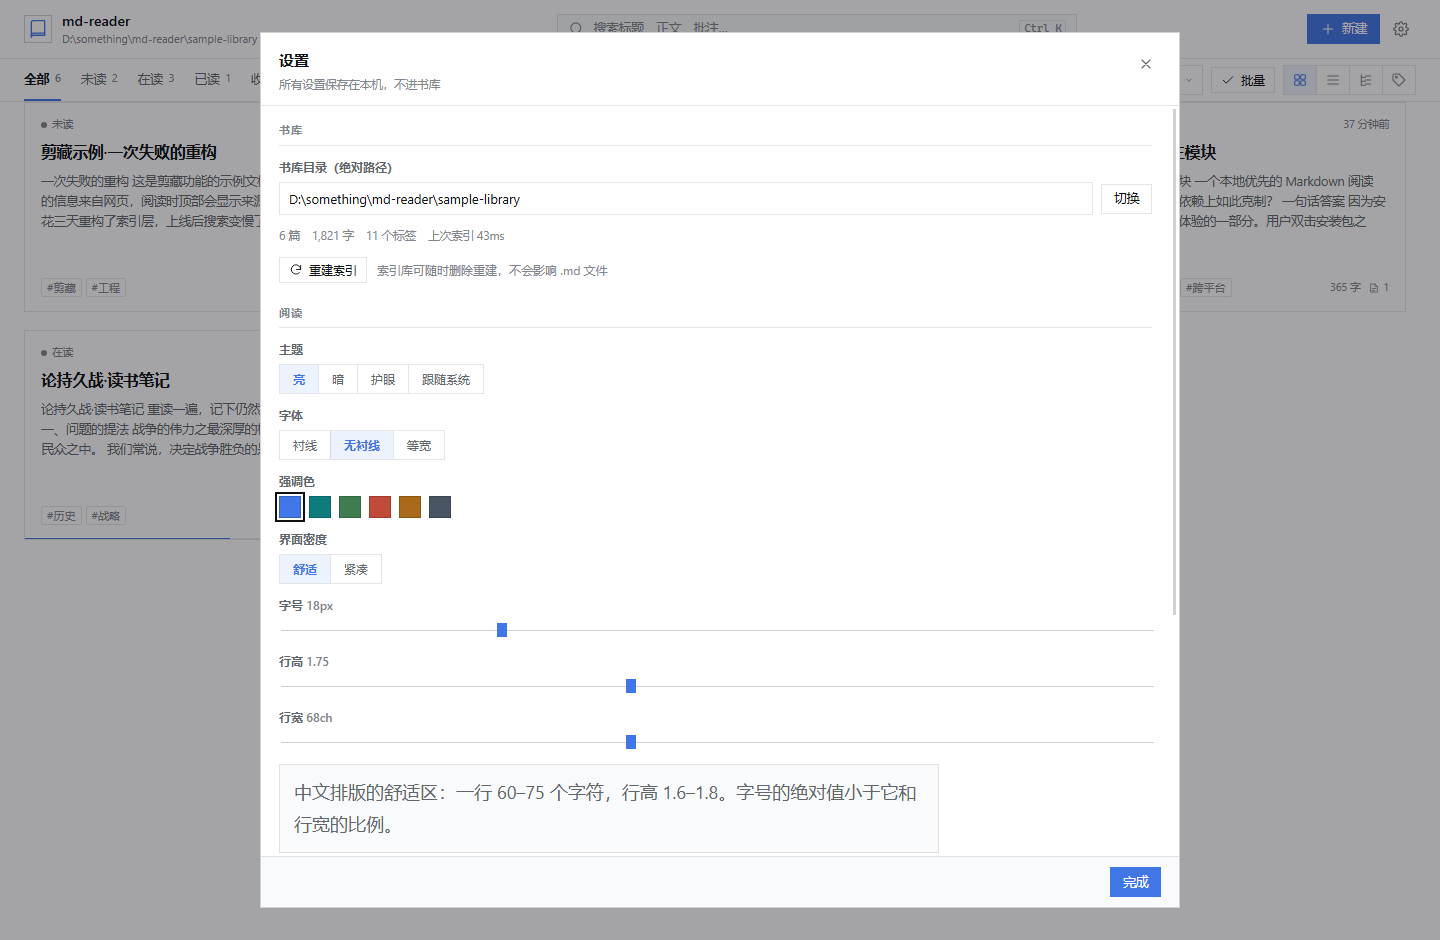
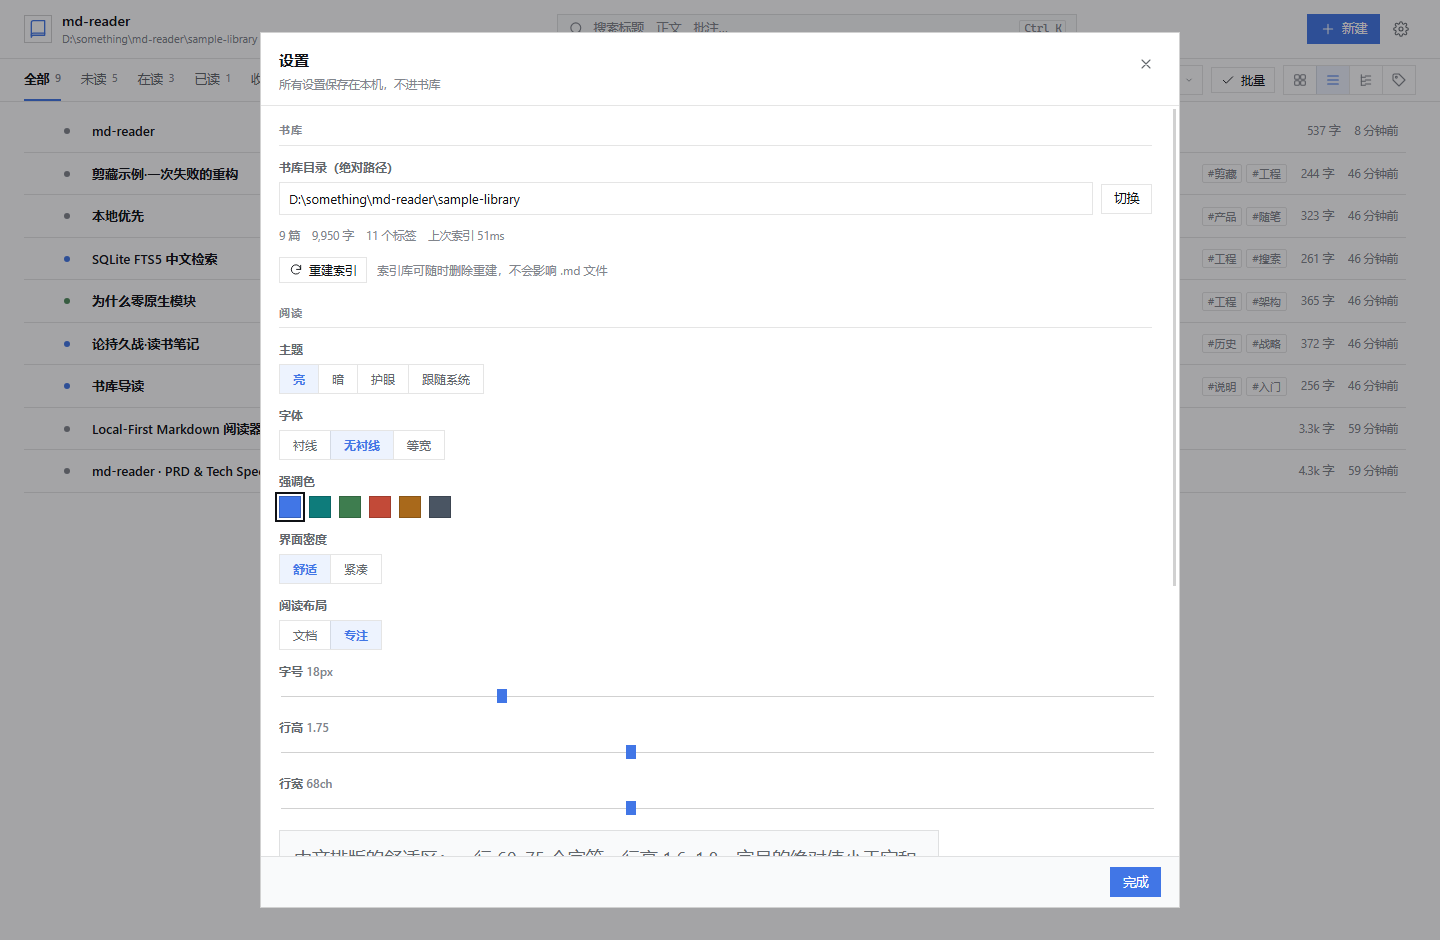
feat(ui): 文档满宽布局 + Typora 式专注布局，记忆书架视图与阅读布局

diff --git a/packages/web/src/components/ReaderPage.tsx b/packages/web/src/components/ReaderPage.tsx
@@ -44,7 +44,7 @@ const STATUS_OPTIONS: { value: DocStatus; label: string }[] = [
 const scrollMemory = new Map<string, number>();
 
 export function ReaderPage({ docId, onBack, onOpenDoc }: ReaderPageProps) {
-  const { config, info, docs, resolveWiki, refreshDocs } = useLibrary();
+  const { config, info, docs, resolveWiki, refreshDocs, applyConfig } = useLibrary();
   const { toast } = useToast();
 
   const [doc, setDoc] = useState<DocPayload | null>(null);
@@ -622,6 +622,7 @@ export function ReaderPage({ docId, onBack, onOpenDoc }: ReaderPageProps) {
   const healthyList = useMemo(() => annotationList.filter((a) => !orphans.includes(a.id)), [annotationList, orphans]);
   const statusLabelText = doc ? statusLabel(doc.status) : '';
   const theme = config?.theme === 'dark' || (config?.theme === 'system' && window.matchMedia('(prefers-color-scheme: dark)').matches) ? 'dark' : 'light';
+  const focusMode = config?.readerLayout === 'focus';
 
   if (loading) {
     return (
@@ -650,7 +651,7 @@ export function ReaderPage({ docId, onBack, onOpenDoc }: ReaderPageProps) {
   }
 
   return (
-    <div className={`reader ${immersive ? 'immersive' : ''}`}>
+    <div className={`reader ${immersive ? 'immersive' : ''} ${focusMode ? 'focus-mode' : ''}`}>
       <header className="reader-head">
         <button className="icon-btn" onClick={onBack} title="返回书架（Esc）">
           <Icon name="back" size={19} />
@@ -710,8 +711,23 @@ export function ReaderPage({ docId, onBack, onOpenDoc }: ReaderPageProps) {
             </>
           )}
           <button
+            className={`btn btn-ghost small ${focusMode ? 'active' : ''}`}
+            onClick={() => void applyConfig({ readerLayout: focusMode ? 'document' : 'focus' })}
+            title="切换阅读布局：文档（三栏）/ 专注（单栏）"
+          >
+            <Icon name="layout" size={14} />
+            {focusMode ? '文档' : '专注'}
+          </button>
+          <button
             className={`icon-btn ${panelOpen ? 'active' : ''}`}
-            onClick={() => setPanelOpen((v) => !v)}
+            onClick={() => {
+              if (focusMode) {
+                void applyConfig({ readerLayout: 'document' });
+                setPanelOpen(true);
+                return;
+              }
+              setPanelOpen((v) => !v);
+            }}
             title="侧边面板"
           >
             <Icon name="sidebar" size={18} />
@@ -775,7 +791,7 @@ export function ReaderPage({ docId, onBack, onOpenDoc }: ReaderPageProps) {
       )}
 
       <div className="reader-main">
-        {!immersive && panelOpen && <Toc items={toc} activeId={activeHeading} onJump={(id) => articleRef.current?.scrollToHeading(id)} />}
+        {!immersive && !focusMode && panelOpen && <Toc items={toc} activeId={activeHeading} onJump={(id) => articleRef.current?.scrollToHeading(id)} />}
 
         <div className="reader-content">
           {doc.source?.url && mode === 'read' && (
@@ -832,7 +848,7 @@ export function ReaderPage({ docId, onBack, onOpenDoc }: ReaderPageProps) {
           )}
         </div>
 
-        {!immersive && panelOpen && (
+        {!immersive && !focusMode && panelOpen && (
           <aside className="side-panel">
             <div className="panel-tabs">
               <button className={panelTab === 'notes' ? 'active' : ''} onClick={() => setPanelTab('notes')}>

diff --git a/packages/web/src/components/ShelfPage.tsx b/packages/web/src/components/ShelfPage.tsx
@@ -26,6 +26,20 @@ const STATUS_TABS: { key: StatusFilter; label: string; icon: IconName }[] = [
   { key: 'inbox', label: '收件箱', icon: 'inbox' },
 ];
 
+const VIEW_MODES: readonly ViewMode[] = ['grid', 'list', 'tree', 'tags'];
+const SORT_KEYS: readonly SortKey[] = ['recent', 'added', 'words', 'title'];
+const STATUS_KEYS: readonly StatusFilter[] = ['all', 'unread', 'reading', 'done', 'inbox'];
+
+function readPreference<T extends string>(key: string, allowed: readonly T[], fallback: T): T {
+  try {
+    const value = localStorage.getItem(key);
+    if (value && (allowed as readonly string[]).includes(value)) return value as T;
+  } catch {
+    /* ignore */
+  }
+  return fallback;
+}
+
 function matchesFilter(doc: DocSummary, filter: StatusFilter): boolean {
   if (filter === 'all') return true;
   if (filter === 'inbox') return dirOf(doc.relPath).toLowerCase().startsWith('inbox');
@@ -62,9 +76,11 @@ export function ShelfPage({ onOpenDoc, onNewDoc, onOpenSearch, onOpenSettings }:
   const { docs, tags, info, loading, error, refresh, refreshDocs, progress, config } = useLibrary();
   const { toast } = useToast();
   const density = config?.density ?? 'comfortable';
-  const [status, setStatus] = useState<StatusFilter>('all');
-  const [sort, setSort] = useState<SortKey>('recent');
-  const [view, setView] = useState<ViewMode>('grid');
+  const [status, setStatus] = useState<StatusFilter>(() =>
+    readPreference('mr.shelf.status', STATUS_KEYS, 'all'),
+  );
+  const [sort, setSort] = useState<SortKey>(() => readPreference('mr.shelf.sort', SORT_KEYS, 'recent'));
+  const [view, setView] = useState<ViewMode>(() => readPreference('mr.shelf.view', VIEW_MODES, 'grid'));
   const [query, setQuery] = useState('');
   const [activeTag, setActiveTag] = useState<string | null>(null);
   const [tagQuery, setTagQuery] = useState('');
@@ -72,6 +88,17 @@ export function ShelfPage({ onOpenDoc, onNewDoc, onOpenSearch, onOpenSettings }:
   const [selected, setSelected] = useState<Set<string>>(new Set());
   const [tagInput, setTagInput] = useState('');
   const [tagOpen, setTagOpen] = useState(false);
+
+  // 记住书架布局与筛选，进入文章再返回不会重置
+  useEffect(() => {
+    try {
+      localStorage.setItem('mr.shelf.view', view);
+      localStorage.setItem('mr.shelf.sort', sort);
+      localStorage.setItem('mr.shelf.status', status);
+    } catch {
+      /* ignore */
+    }
+  }, [view, sort, status]);
 
   const counts = useMemo(() => {
     const map: Record<string, number> = { all: docs.length, unread: 0, reading: 0, done: 0, inbox: 0 };

diff --git a/packages/web/src/components/SettingsDialog.tsx b/packages/web/src/components/SettingsDialog.tsx
@@ -38,6 +38,11 @@ const DENSITIES: { key: AppConfig['density']; label: string; hint: string }[] = 
   { key: 'compact', label: '紧凑', hint: '卡片显示 2 行摘要，一屏更多' },
 ];
 
+const LAYOUTS: { key: AppConfig['readerLayout']; label: string; hint: string }[] = [
+  { key: 'document', label: '文档', hint: '三栏：目录 + 正文 + 批注/反链' },
+  { key: 'focus', label: '专注', hint: '单栏：类似 Typora，隐藏两侧栏' },
+];
+
 export function SettingsDialog({ open, onClose }: SettingsDialogProps) {
   const { config, info, applyConfig, refresh } = useLibrary();
   const { toast } = useToast();
@@ -65,6 +70,7 @@ export function SettingsDialog({ open, onClose }: SettingsDialogProps) {
         theme: form.theme,
         accent: form.accent,
         density: form.density,
+        readerLayout: form.readerLayout,
         fontFamily: form.fontFamily,
         fontSize: form.fontSize,
         lineHeight: form.lineHeight,
@@ -207,6 +213,22 @@ export function SettingsDialog({ open, onClose }: SettingsDialogProps) {
                   title={density.hint}
                 >
                   {density.label}
+                </button>
+              ))}
+            </div>
+          </div>
+
+          <div className="field">
+            <span>阅读布局</span>
+            <div className="segmented">
+              {LAYOUTS.map((layout) => (
+                <button
+                  key={layout.key}
+                  className={form.readerLayout === layout.key ? 'active' : ''}
+                  onClick={() => patch({ readerLayout: layout.key })}
+                  title={layout.hint}
+                >
+                  {layout.label}
                 </button>
               ))}
             </div>

diff --git a/packages/server/src/core/config.ts b/packages/server/src/core/config.ts
@@ -8,12 +8,14 @@ export type ThemeName = 'light' | 'dark' | 'sepia' | 'system';
 export type FontFamily = 'serif' | 'sans' | 'mono';
 export type AccentName = 'blue' | 'teal' | 'green' | 'red' | 'amber' | 'graphite';
 export type Density = 'comfortable' | 'compact';
+export type ReaderLayout = 'document' | 'focus';
 
 export interface AppConfig {
   libraryRoot: string | null;
   theme: ThemeName;
   accent: AccentName;
   density: Density;
+  readerLayout: ReaderLayout;
   fontSize: number;
   lineHeight: number;
   measureCh: number;
@@ -30,6 +32,7 @@ export const DEFAULT_CONFIG: AppConfig = {
   theme: 'system',
   accent: 'blue',
   density: 'comfortable',
+  readerLayout: 'document',
   fontSize: 18,
   lineHeight: 1.75,
   measureCh: 68,
@@ -109,11 +112,13 @@ export function sanitizeConfig(input: AppConfig): AppConfig {
     ? input.accent
     : 'blue';
   const density: Density = input.density === 'compact' ? 'compact' : 'comfortable';
+  const readerLayout: ReaderLayout = input.readerLayout === 'focus' ? 'focus' : 'document';
   return {
     libraryRoot: typeof input.libraryRoot === 'string' && input.libraryRoot.trim() ? input.libraryRoot : null,
     theme,
     accent,
     density,
+    readerLayout,
     fontSize: clamp(input.fontSize, CONFIG_LIMITS.fontSize, 18),
     lineHeight: clamp(input.lineHeight, CONFIG_LIMITS.lineHeight, 1.75),
     measureCh: clamp(input.measureCh, CONFIG_LIMITS.measureCh, 68),

diff --git a/packages/web/src/styles/app.css b/packages/web/src/styles/app.css
@@ -293,6 +293,11 @@ a {
   background: var(--bg-hover);
   border-color: var(--fg-3);
 }
+.btn.active {
+  background: var(--bg-soft);
+  border-color: var(--line-strong);
+  color: var(--accent);
+}
 .btn:disabled {
   opacity: 0.45;
   cursor: not-allowed;
@@ -1374,6 +1379,23 @@ kbd {
   display: flex;
 }
 
+/* Typora 式专注布局：单栏、居中、无侧栏 */
+.reader.focus-mode .toc,
+.reader.focus-mode .side-panel {
+  display: none;
+}
+.reader.focus-mode .article-wrap {
+  padding: 44px 32px 32px;
+}
+.reader.focus-mode .article {
+  max-width: var(--reader-measure);
+  margin: 0 auto;
+}
+.reader.focus-mode .editor-host .cm-editor {
+  max-width: var(--reader-measure);
+  margin: 0 auto;
+}
+
 .toc {
   width: 220px;
   flex: none;
@@ -1443,9 +1465,9 @@ kbd {
   scrollbar-color: var(--scrollbar) transparent;
 }
 .article-wrap {
-  max-width: calc(var(--reader-measure) + 64px);
-  margin: 0 auto;
-  padding: 36px 32px 20px;
+  max-width: none;
+  margin: 0;
+  padding: 36px 40px 20px;
 }
 .article-foot {
   display: flex;

diff --git a/packages/web/src/types.ts b/packages/web/src/types.ts
@@ -4,6 +4,7 @@ export type ThemeName = 'light' | 'dark' | 'sepia' | 'system';
 export type FontFamily = 'serif' | 'sans' | 'mono';
 export type AccentName = 'blue' | 'teal' | 'green' | 'red' | 'amber' | 'graphite';
 export type Density = 'comfortable' | 'compact';
+export type ReaderLayout = 'document' | 'focus';
 
 export interface DocSummary {
   id: string;
@@ -83,6 +84,7 @@ export interface AppConfig {
   theme: ThemeName;
   accent: AccentName;
   density: Density;
+  readerLayout: ReaderLayout;
   fontSize: number;
   lineHeight: number;
   measureCh: number;

diff --git a/packages/web/src/components/Icons.tsx b/packages/web/src/components/Icons.tsx
@@ -18,6 +18,7 @@ export type IconName =
   | 'tag'
   | 'book'
   | 'sidebar'
+  | 'layout'
   | 'copy'
   | 'external'
   | 'note'
@@ -99,6 +100,12 @@ const PATHS: Record<IconName, ReactNode> = {
   sidebar: (
     <>
       <rect x="3" y="4" width="18" height="16" rx="2" />
+      <path d="M9 4v16" />
+    </>
+  ),
+  layout: (
+    <>
+      <rect x="3" y="4" width="18" height="16" />
       <path d="M9 4v16" />
     </>
   ),

diff --git a/packages/web/src/styles/editor.css b/packages/web/src/styles/editor.css
@@ -20,7 +20,7 @@
 }
 
 .editor-host .cm-editor {
-  width: min(100%, calc(var(--reader-measure) + 32px));
+  width: 100%;
   height: 100%;
   background: transparent;
   color: var(--fg);
@@ -37,7 +37,7 @@
   font-family: inherit;
   line-height: inherit;
   overflow-y: auto;
-  padding: 30px 6px 220px;
+  padding: 30px 40px 220px;
   scrollbar-width: thin;
   scrollbar-color: var(--scrollbar) transparent;
 }

diff --git a/packages/web/src/styles/markdown.css b/packages/web/src/styles/markdown.css
@@ -4,8 +4,9 @@
    ============================================================ */
 
 .article {
-  max-width: var(--reader-measure);
-  margin: 0 auto;
+  max-width: none;
+  width: 100%;
+  margin: 0;
   font-family: var(--font-body);
   font-size: var(--reader-font-size);
   line-height: var(--reader-line-height);

diff --git a/docs/UI-DESIGN.md b/docs/UI-DESIGN.md
@@ -111,18 +111,26 @@ UI:   -apple-system, BlinkMacSystemFont, "Segoe UI", "PingFang SC", "Microsoft Y
 - 卡片内容：状态点 + 时间（11px）→ 标题 16px/600（最多 2 行）→ 摘要 12.8px/1.6（3 行，compact 2 行）→ 标签 + 字数/批注数。
 - 列表：行高 38px，hover 底色，分隔线 0.5px。
 - 批量条：`--bg-soft` 底，按钮方形，危险操作靠右。
+- **布局记忆**：视图模式 / 排序 / 状态筛选写入 `localStorage`（`mr.shelf.*`），进入文章再返回不会重置成卡片。
 
-### 3.3 阅读器
-- 三栏：目录 220px（右侧 1px 线）｜正文 68ch｜侧栏 336px（左侧 1px 线）。
+### 3.3 阅读器（双布局）
+
+顶栏右侧「布局」按钮在两种布局间切换，选择写入 `config.readerLayout`：
+
+| 布局 | 规则 |
+|---|---|
+| **文档** | 三栏：目录 220px（右边线）｜正文 | 侧栏 336px（左边线）。正文 `max-width: none`，**撑满中间栏，左右不留白**。 |
+| **专注** | 单栏：隐藏目录与侧栏；正文居中 `--reader-measure`（默认 68ch），类似 Typora 的沉浸阅读/写作空间。 |
+
 - 目录项：0 圆角，左侧 2px 透明边；选中为强调色文字 + 2px 左边线，不做底色块。
-- 正文：白底、无卡片容器，靠留白；标题 700，链接无下划线（hover 点状下划线），引用 2px 左边线。
+- 正文：白底、无卡片容器；标题 700，链接无下划线（hover 点状下划线），引用 2px 左边线。
 - 批注高亮：4 色半透明底（40%），0 圆角；hover 加深；定位闪烁用 2px 外框而非发光。
 - 侧栏 tab：下划线式，计数用小号 `--fg-3`。
 - 批注卡：0 圆角、1px 边框；note 为无边框 textarea，focus 时仅底色变化。
 - 反链/提及/出链条目：1px 边框、hover 变深；断链用 `--danger` 文字 + 波浪线。
 
 ### 3.4 写作
-- 编辑区与阅读区同宽同字体，背景 `--bg`，无边框。
+- 编辑区与阅读区同字体；文档布局下同样撑满内容区，专注布局下居中同宽。
 - Live Preview：标题加粗、行内代码底色、链接强调色、图片 2px 圆角。
 - 保存状态：文字 + 1px 边框小标签，不用胶囊。
 - 冲突对话框：左右两栏只读 + 下方可编辑合并结果；0 圆角，1px 边框。
@@ -143,12 +151,13 @@ UI:   -apple-system, BlinkMacSystemFont, "Segoe UI", "PingFang SC", "Microsoft Y
 | 主题 | 亮 / 暗 / 护眼 / 跟随系统 | `config.theme` + `data-theme` |
 | 强调色 | 深蓝 / 青 / 绿 / 朱 / 琥珀 / 石墨 | `config.accent` + `data-accent` |
 | 密度 | 舒适 / 紧凑 | `config.density` + `data-density` |
+| 阅读布局 | 文档 / 专注 | `config.readerLayout` + `.focus-mode` |
 | 正文字体 | 衬线 / 无衬线 / 等宽 | `config.fontFamily` |
 | 字号 | 14–30px | `config.fontSize` |
 | 行高 | 1.4–2.4 | `config.lineHeight` |
-| 行宽 | 40–110ch | `config.measureCh` |
+| 行宽 | 40–110ch（专注布局生效） | `config.measureCh` |
 
-全部落到 CSS 变量，主题切换不重排 DOM。
+书架视图 / 排序 / 状态筛选单独存 `localStorage`（`mr.shelf.view` / `.sort` / `.status`），因为它只属于当前设备。
 
 ---
 

diff --git a/README.md b/README.md
@@ -16,7 +16,7 @@
 | 能力 | 状态 | 说明 |
 |---|---|---|
 | 书架 | ✅ | 状态分组、标签筛选、四种视图（书架 / 列表 / 目录 / 标签）、排序、虚拟滚动、批量改状态 / 打标签 |
-| 阅读器 | ✅ | DSH 风格排版、TOC 高亮、沉浸模式、图片灯箱、Shiki 代码高亮 + 行号 + 复制、KaTeX、脚注、任务列表；三主题 + 6 强调色 + 两档密度 |
+| 阅读器 | ✅ | DSH 风格排版、**文档 / 专注两种布局**、TOC 高亮、沉浸模式、图片灯箱、Shiki 代码高亮 + 行号 + 复制、KaTeX、脚注、任务列表；三主题 + 6 强调色 + 两档密度 |
 | 写作 | ✅ | CodeMirror 6 + Live Preview（隐藏标记、标题变大、图片内联、复选框可点）、800ms 自动保存、`Ctrl+S`、冲突检测、粘贴图片 |
 | 批注 | ✅ | 4 色高亮 + 旁注，写回 frontmatter；四级锚点重定位；失效批注单独分组、可重新绑定；导出批注为 Markdown |
 | 双向链接 | ✅ | `[[文档]]`、`[[文档|显示]]`、`[[文档#标题]]`；反链面板、出链、断链标红、悬浮预览、Unlinked Mentions 一键加链 |
@@ -36,9 +36,22 @@
 |---|---|
 | ![书架](docs/screenshots/shelf.png) | ![写作](docs/screenshots/editor.png) |
 
-| 搜索 | 设置 |
+| 专注布局（Typora 式单栏） | 设置 |
 |---|---|
-| ![搜索](docs/screenshots/search.png) | ![设置](docs/screenshots/settings.png) |
+| ![专注布局](docs/screenshots/focus.png) | ![设置](docs/screenshots/settings.png) |
+
+| 全局搜索 | 紧凑密度 |
+|---|---|
+| ![搜索](docs/screenshots/search.png) | ![紧凑密度](docs/screenshots/compact-shelf.png) |
+
+### 阅读布局
+
+阅读页右上角可在两种布局间切换，选择会写入配置，进入/退出文章不会丢：
+
+| 布局 | 说明 |
+|---|---|
+| **文档** | 三栏：目录 + 正文 + 批注/反链面板；正文撑满中间栏，不再有左右留白 |
+| **专注** | Typora 式单栏：隐藏两侧栏，正文居中 68ch，适合连续阅读与写作 |
 
 ### 视觉风格
 
